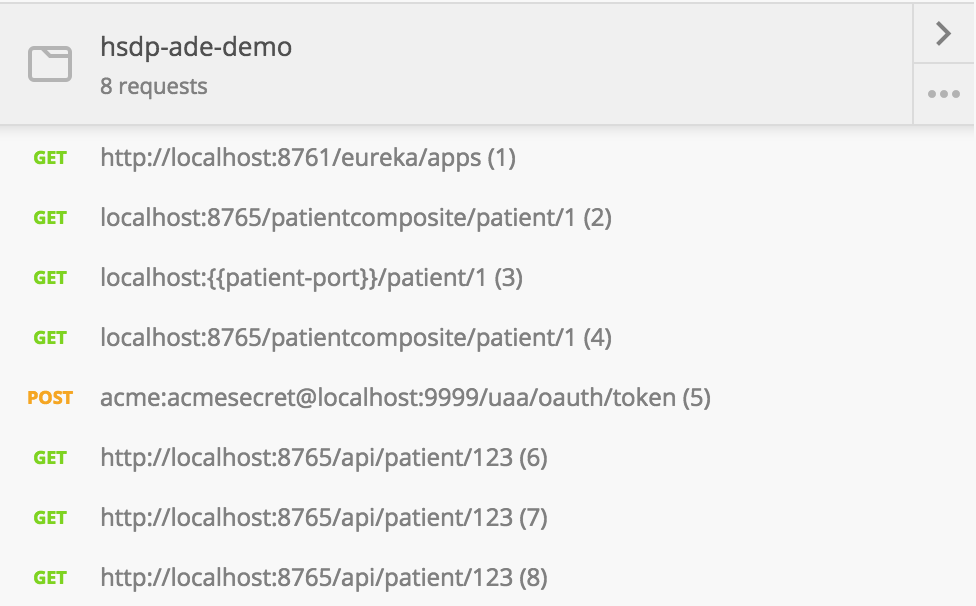
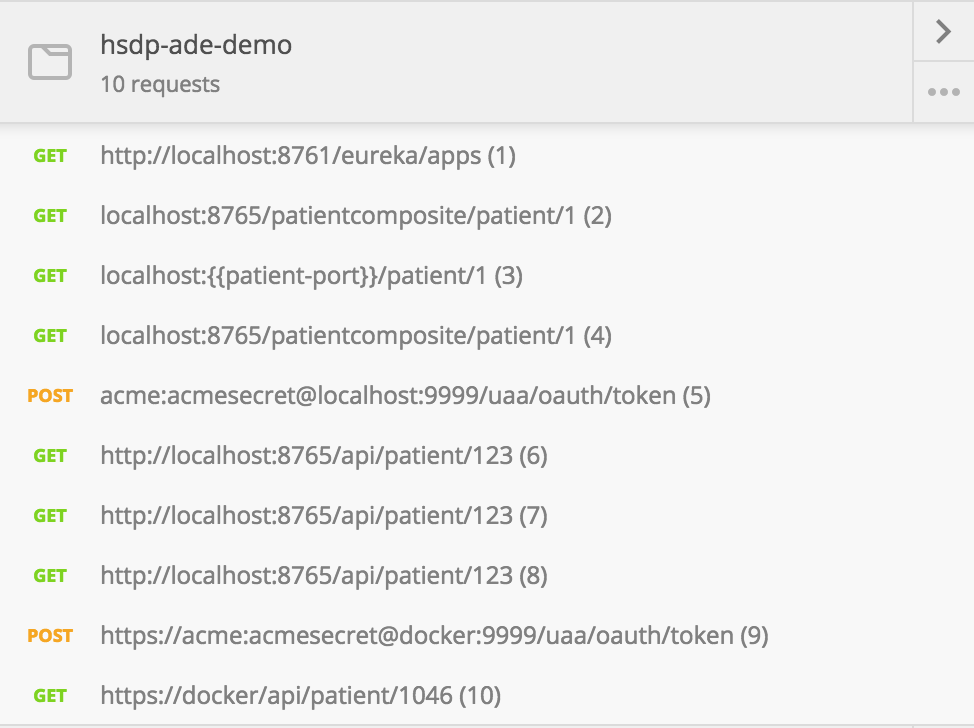
Added postman to Delta article. Minor changes in other articles.

diff --git a/articles/delta.md b/articles/delta.md
@@ -11,7 +11,7 @@ They are based on open standards allowing containers to run on all major Linux d
 
 Containers running on a single machine all share the same operating system kernel so they start instantly and make more efficient use of RAM. Images are constructed from layered filesystems so they can share common files, making disk usage and image downloads much more efficient. Containers isolate applications from each other and the underlying infrastructure while providing an added layer of protection for the application.
 
-Compared to VMs Docker containers have similar resource isolation and allocation benefits as virtual machines but a different architectural approach allows them to be much more portable and efficient.
+Compared to VMs, Docker containers have similar resource isolation and allocation benefits as virtual machines but a different architectural approach allows them to be much more portable and efficient.
 
 ![Docker](../images/delta-docker.png)
 
@@ -24,6 +24,10 @@ Soon to come.
 
 ## Docker Installation
 Please install and setup Docker for your environment following the [Get Started](https://docs.docker.com/mac/started/) for Mac or [Get Started](https://docs.docker.com/windows/started) for windows. Return once you have Docker installed.
+
+> **NOTE** Recently Docker Beta was launched. Since you have to subscribe we do not use it for this article series. However, feel 
+> free to subscribe and use docker beta. Faster, and more reliable without VirtualBox! See the 
+> [announcement](https://blog.docker.com/2016/03/docker-for-mac-windows-beta/) for more information.
 
 If you are on Windows or Mac, Docker by default creates a VM for you named *default*. For this series we will create our own VM with slightly changed 
 specifications. Create a virtual machine named *dev* with 4096MB memory and 32GB disk size with the command below. After that start the new machine.
@@ -42,7 +46,7 @@ $ docker ps
 CONTAINER ID        IMAGE               COMMAND             CREATED             STATUS              PORTS               NAMES
 ```
 
-For convenience we map the IP of our dev box to our hosts file.
+For convenience we map the IP of our dev box to docker in our hosts file. Lookup the IP and add to your hosts file.
 
 ```bash
 $ docker-machine ip dev
@@ -175,7 +179,8 @@ server:
 
 ### Docker 
 To start all our microservices we use [Docker Compose](https://docs.docker.com/compose/). If we configure Docker Compose correctly we
-can start all microservices with a single command `docker-compose up -d`. You configure Docker Compose via an yml file, 
+can start all microservices with a single command `docker-compose up -d` from the root directory holding the `docker-compose.yml`.
+You configure Docker Compose via this yml file, 
 [docker-compose.yml](https://github.com/bastijnv/hsdp-ade-demo/blob/delta/docker-compose.yml). A snapshot is shown below. The complete
 file lists all the containers to start, forwards ports, and links services that need to know about each other.
 
@@ -209,10 +214,10 @@ api:
 ```
 
 ## Testing the system
-Start the services with a single command. 
+Start the services with a single command from the root directory. 
 
 ```bash
-docker-compose up -d
+$ docker-compose up -d
 Creating adedemo_auth_1
 Creating adedemo_rabbitmq_1
 Creating adedemo_discovery_1
@@ -264,8 +269,12 @@ Wait for <http://docker:8761/> to show all services are registered.
 
 Great! Now let's run some queries. First we have to Authorize ourselves. Store the token in an environment variable again for later use.
 
+> As in the Gamma article, the Postman request is failing. Feel free to change it and let me know if you get it to work!
+
 ```cURL
-$ curl https://acme:acmesecret@docker:9999/uaa/oauth/token \                                                                                                           4 ↵
+postman (9)
+
+$ curl https://acme:acmesecret@docker:9999/uaa/oauth/token \
    -d grant_type=password -d client_id=acme \
    -d username=user -d password=password -ks | jq .
 {
@@ -284,9 +293,12 @@ Now use the token to request some data. If you are still keeping an eye on the d
 you should see the microservices log the request. Due to the bug reported in the earlier article it might take some tries
 before it returns the data. Once it does however it will always work directly. 
 
-> **NOTE** If you get tired of this issue feel free to fork and deliver the fix in a pull request!
+> **NOTE** If you get tired of this issue feel free to fork and deliver the fix in a pull request! Seems the core services
+> do not respond fast enough or Hystrix falsely opens the circuit.
 
 ```cURL
+postman (10) | run postman(9) or manually add access_token
+
 $ curl -H "Authorization: Bearer $TOKEN" \
   -ks 'https://docker/api/patient/1046' | jq .
 {
@@ -370,6 +382,9 @@ composite_1   | 2016-05-16 13:31:03.340  INFO 1 --- [eIntegration-53] c.p.m.c.p.
 episode_1     | 2016-05-16 13:31:03.372  INFO 1 --- [ XNIO-2 task-10] c.p.m.c.episode.service.EpisodeService   : /episodes called, processing time: 0
 episode_1     | 2016-05-16 13:31:03.384  INFO 1 --- [ XNIO-2 task-10] c.p.m.c.episode.service.EpisodeService   : /episodes response size: 3
 api_1         | 2016-05-16 13:31:03.445  INFO 1 --- [ntApiService-19] c.p.m.a.p.service.PatientApiService      : GetPatientComposite http-status: 200
+...
+episode_2     | 2016-05-16 13:31:04.176  INFO 1 --- [ XNIO-2 task-10] c.p.m.c.episode.service.EpisodeService   : /episodes called, processing time: 0
+episode_2     | 2016-05-16 13:31:04.192  INFO 1 --- [ XNIO-2 task-10] c.p.m.c.episode.service.EpisodeService   : /episodes response size: 3
 ```
 
 ## Wrap-up

diff --git a/articles/gamma.md b/articles/gamma.md
@@ -23,7 +23,7 @@ In subsequent articles we will extent this landscape to finally match the landsc
 ![](../images/gamma-overview.png)
 
 The four roles in OAuth are: (1) Resource Owner, (2) Client, (3) Resource Server, (4) Authorization Server. In our operations model 
-shown in the overview below we introduce an *OAuth Authorization Server* as a separate component. The API services will act as *OAuth Resource Server* and the
+shown in the overview above we introduce an *OAuth Authorization Server* as a separate component. The API services will act as *OAuth Resource Server* and the
 external API consumers will be the *OAuth Resource Clients*. Finally, the edge server will act as *OAuth Token Relay* meaning it is an
 *OAuth Resource Server* that passes through the *OAuth Access Tokens* that are contained in the external requests to the API services.
 Note that the role of Authorization Server is often
@@ -31,8 +31,8 @@ taken by either public providers such as Facebook, Google, or LinkedIN, or by of
 we will address this in more detail. In the remainder of this article we will test all four authorization grant flows to get an access token from the Authorization server. 
 
 > Note that when we talk security doing everything over HTTP is not advised. In any real world scenario you should
-> route all your traffic over HTTPS. For the sake of keeping things simple in this series we will continue to 
-> use HTTP exclusively.
+> route all your traffic over HTTPS. For the sake of keeping things simple in this article we will continue to 
+> use HTTP.
 
 ## Source
 To get and build the source used in the remainder of this article you can checkout the GIT repo.
@@ -100,8 +100,8 @@ zuul:
     patientapi: /patient/**
 ```
 
-This gives URLs like <http://localhost:8765/api/patient/123> instead of <http://localhost:8765/patientapi/patient/123> as we used in the previous posts.
-The route to the composite-service is also replaced with a route to the api-service.
+This gives URLs like <http://localhost:8765/api/patient/123> instead of <http://localhost:8765/patientapi/patient/123> as we 
+used in the previous articles. The route to the composite-service is also replaced with a route to the api-service.
 
 ### Microservices
 The *patient-api-service* must be configured to be an OAuth Resource Server. As you might guess, again Spring helps us out by providing a
@@ -144,7 +144,7 @@ public ResponseEntity<String> getPatientComposite(
 We have removed the `/patient` from the RequestMapping to be in line with the changes to the Edge Server mentioned before.
 
 ## Testing the system
-Ensure your RabbitMQ is running then start the services.
+Ensure your RabbitMQ is running as explained in the Beta article, then start the services.
 
 ```bash
 $ cd support/auth-server;       ./gradlew bootRun
@@ -170,12 +170,12 @@ To initiate an authorization code token grant you visit the authorization endpoi
 authenticated (user/password) and accept the consent you will get a redirect to example.com with an authorization code attached, 
 e.g. <http://example.com/?code=VuBeo9&state=97536>.
 
-![gamma-consent](../images/gamma-consent.png)
+<img src="../images/gamma-consent.png" width="425px" height="195px" style="display:block;margin:auto;">
 
-> **NOTE** the state parameter should be set to a random value in the request and checked on the response for preventing cross-site request forgery.
+> **NOTE** The state parameter should be set to a random value in the request and checked on the response for preventing cross-site request forgery.
 
-> **NOTE** for the purposes of this sample application we have created a client "acme" with no registered redirect, which is what enables us to get 
-> a redirect the example.com. In a production application you should always register a redirect (and use HTTPS).
+> **NOTE** For the purposes of this sample application we have created a client "acme" with no registered redirect, which is what enables us to get 
+> a redirect to example.com. In a production application you should always register a redirect (and use HTTPS).
 
 The code can be exchanged for an access token using the "acme" client credentials on the token endpoint. 
 
@@ -237,7 +237,8 @@ export TOKEN=7f986847-7363-4c6a-b122-d15e0d18d519
 ### Resource Owner Password Credentials Grant
 With the resource owner password credentials grant type, the user provides their service credentials (username and password) directly to the application, which uses the credentials to obtain an access token from the service. This grant type should only be enabled on the authorization server if other flows are not viable. Also, it should only be used if the application is trusted by the user (e.g. it is owned by the service, or the user's desktop OS).
 
-> **NOTE** We are not sure why, but the postman request is broken while cURL request works. Nonetheless, we added it for you.
+> **NOTE** We are not sure why, but firing the request from Postman fails while the exported cURL works. 
+> Nonetheless, we added it for you.
 
 ```cURL
 postman (5)
@@ -312,7 +313,7 @@ Now that we have verified that throws access denied, let's add our access token 
 have stored a valid access token in the `TOKEN` environment variable.
 
 ```cURL
-postman (8)
+postman (8) | replace your token
 
 curl 'http://localhost:8765/api/patient/123' \
   -H  "Authorization: Bearer $TOKEN" -s | jq .

diff --git a/articles/alpha.md b/articles/alpha.md
@@ -154,14 +154,14 @@ public ResponseEntity<List<Observation>> getObservations(int patientId) {
 
 ## Testing the system
 To be able to run the commands below we expect you have [cURL](https://curl.haxx.se/) and
-[jq](https://stedolan.github.io/jq/) at your disposal. For convenience we also provide a 
-[Postman](https://www.getpostman.com/) collection to follow along. The collection can 
-be found [here](https://www.getpostman.com/collections/d02c8552ea9a65432a10). Each request 
-below is numbered (between brackets) to easily trace back and forth. 
-
-![postman](../images/alpha-postman.png)
+[jq](https://stedolan.github.io/jq/) at your disposal. We also provide a 
+[Postman](https://www.getpostman.com/) collection to follow along.
+The collection can be found [here](https://www.getpostman.com/collections/d02c8552ea9a65432a10). 
+Each request below is numbered (between brackets) to easily trace back and forth. 
 
 > They can be replaced by any other tool if you know what you are doing.
+
+<img src="../images/alpha-postman.png" width="490px" height="365px" style="display:block;margin:auto;">
 
 Each microservice you built before can be started via the gradle command `./gradlew bootRun`. So
 the below series of commands start the services. You might want to start the supporting services
@@ -293,7 +293,7 @@ untouched. The response should be something similar to the following:
 }
 ```
 
-Now, since not protection is yet in place, we can also directly call the core services bypassing
+Now, since no protection is yet in place, we can also directly call the core services bypassing
 the edge server. We do not know which dynamic address was assigned to them but using the output
 from our earlier Eureka REST api call we can look them up.
 
@@ -306,7 +306,7 @@ $ curl -s localhost:41533/episode?patientId=1 | jq .
 $ curl -s localhost:65522/observation?patientId=1 | jq .
 ```
 
-Now that we have verified that is working we can spin up a new instance of the episode service.
+Now that we have verified everything is working we can spin up a new instance of the episode service.
 Having multiple instances up for a single service is common practice to prevent failures due to
 network outage or crashing services. Adding a new instance is as easy as starting another instance
 since service discovery handles the rest for us.
@@ -316,7 +316,7 @@ $ cd core/episode-service
 $ ./gradlew bootRun
 ```
 
-After a while you should see the registered service in your eureka page. Under the status message
+After a while you should see the registered service in your Eureka page. Under the status message
 for the episode service it should now say **up**(*2*) instead of **up**(1). If you run the previous
 curl command to the patientcomposite a few times and watch the logs of the episode services you
 should see both services responding. To make sure the calls are made fast enough after each other

diff --git a/articles/beta.md b/articles/beta.md
@@ -18,7 +18,7 @@ introduction on circuit breakers read [Fowler's post](http://martinfowler.com/bl
 A typical circuit breaker applies state transitions like seen in the image below. When a service is behaving 
 as expected the circuit will be closed and business is as usual. Requests are made to the target service. 
 When a service starts failing the circuit breaker waits for a threshold to be reached after which it opens 
-the circuit. An open circuit will prevent the request to the target service is not made but a cached 
+the circuit. An open circuit will prevent the request to the target service to be made, instead a (cached) 
 response is returned immediately. After a set period the circuit breaker will test if the circuit can 
 be closed again by allowing some request to pass to the target request. When the target service is available 
 again the circuit will be closed again.
@@ -112,13 +112,13 @@ Great, the code is there now build it using `build-all.sh` and let's try it out!
 
 ## Testing the system
 > As in [Alpha](alpha.html), to be able to run the commands below we expect you have [cURL](https://curl.haxx.se/) and
-> [jq](https://stedolan.github.io/jq/) at your disposal. You can replace these with any other tools 
-> with similar functionality if you know what you are doing. In addition, the Postman collection is available and traced
-> here.
+> [jq](https://stedolan.github.io/jq/) at your disposal. In addition, the Postman collection is available
+> [here](https://www.getpostman.com/collections/d02c8552ea9a65432a10). You can replace these with any other 
+> tools with similar functionality if you know what you are doing.
 
-You can start all services as explained in the [previous](alpha.html) article. In addition you have to run RabbitMQ locally 
-for Hystrix to work. If you do not have RabbitMQ installed you can download it [here](https://www.rabbitmq.com/download.html). 
-Follow the instructions and return here when RabbitMQ is running.
+You have to run RabbitMQ locally for Hystrix to work. If you do not have RabbitMQ installed you 
+can download it [here](https://www.rabbitmq.com/download.html). Follow the instructions and return 
+here when RabbitMQ is running.
 
 >MacOSX users should really use *homebrew* to install.
 

diff --git a/articles/introduction.md b/articles/introduction.md
@@ -17,8 +17,7 @@ The remainder of this article will cover three important aspects to rollout your
 
 ## Architecture
 To be able to manage and maintain a microservice landscape at an enterprise scale we must define an architecture to partition our microservices. Many options 
-are available here, and we by no means want to say the one presented here is the only right one. Your situation can require a different architecture, as long 
-as you establish one before you start to prevent ending up with a bowl of spaghetti.
+are available here, and we by no means want to say the one presented here is the only right one. Your situation can require a different architecture, as long  as you establish one before you start to prevent ending up in chaos.
 
 The architecture for this series discerns three layers of services:
 
@@ -88,3 +87,9 @@ Inter-service communication is implemented using the ELK stack: [Logstash](https
 
 ## Contineous Delivery
 Stay tuned!
+
+## Wrap-up
+We introduced the architecture and operations model we will use in the remainder of this series. We discussed
+the challenges of the architecture and briefly presented how we will address them.
+
+In the [next](alpha.html) article we will setup the base services, Edge server, Load Balancer, and Discovery.
